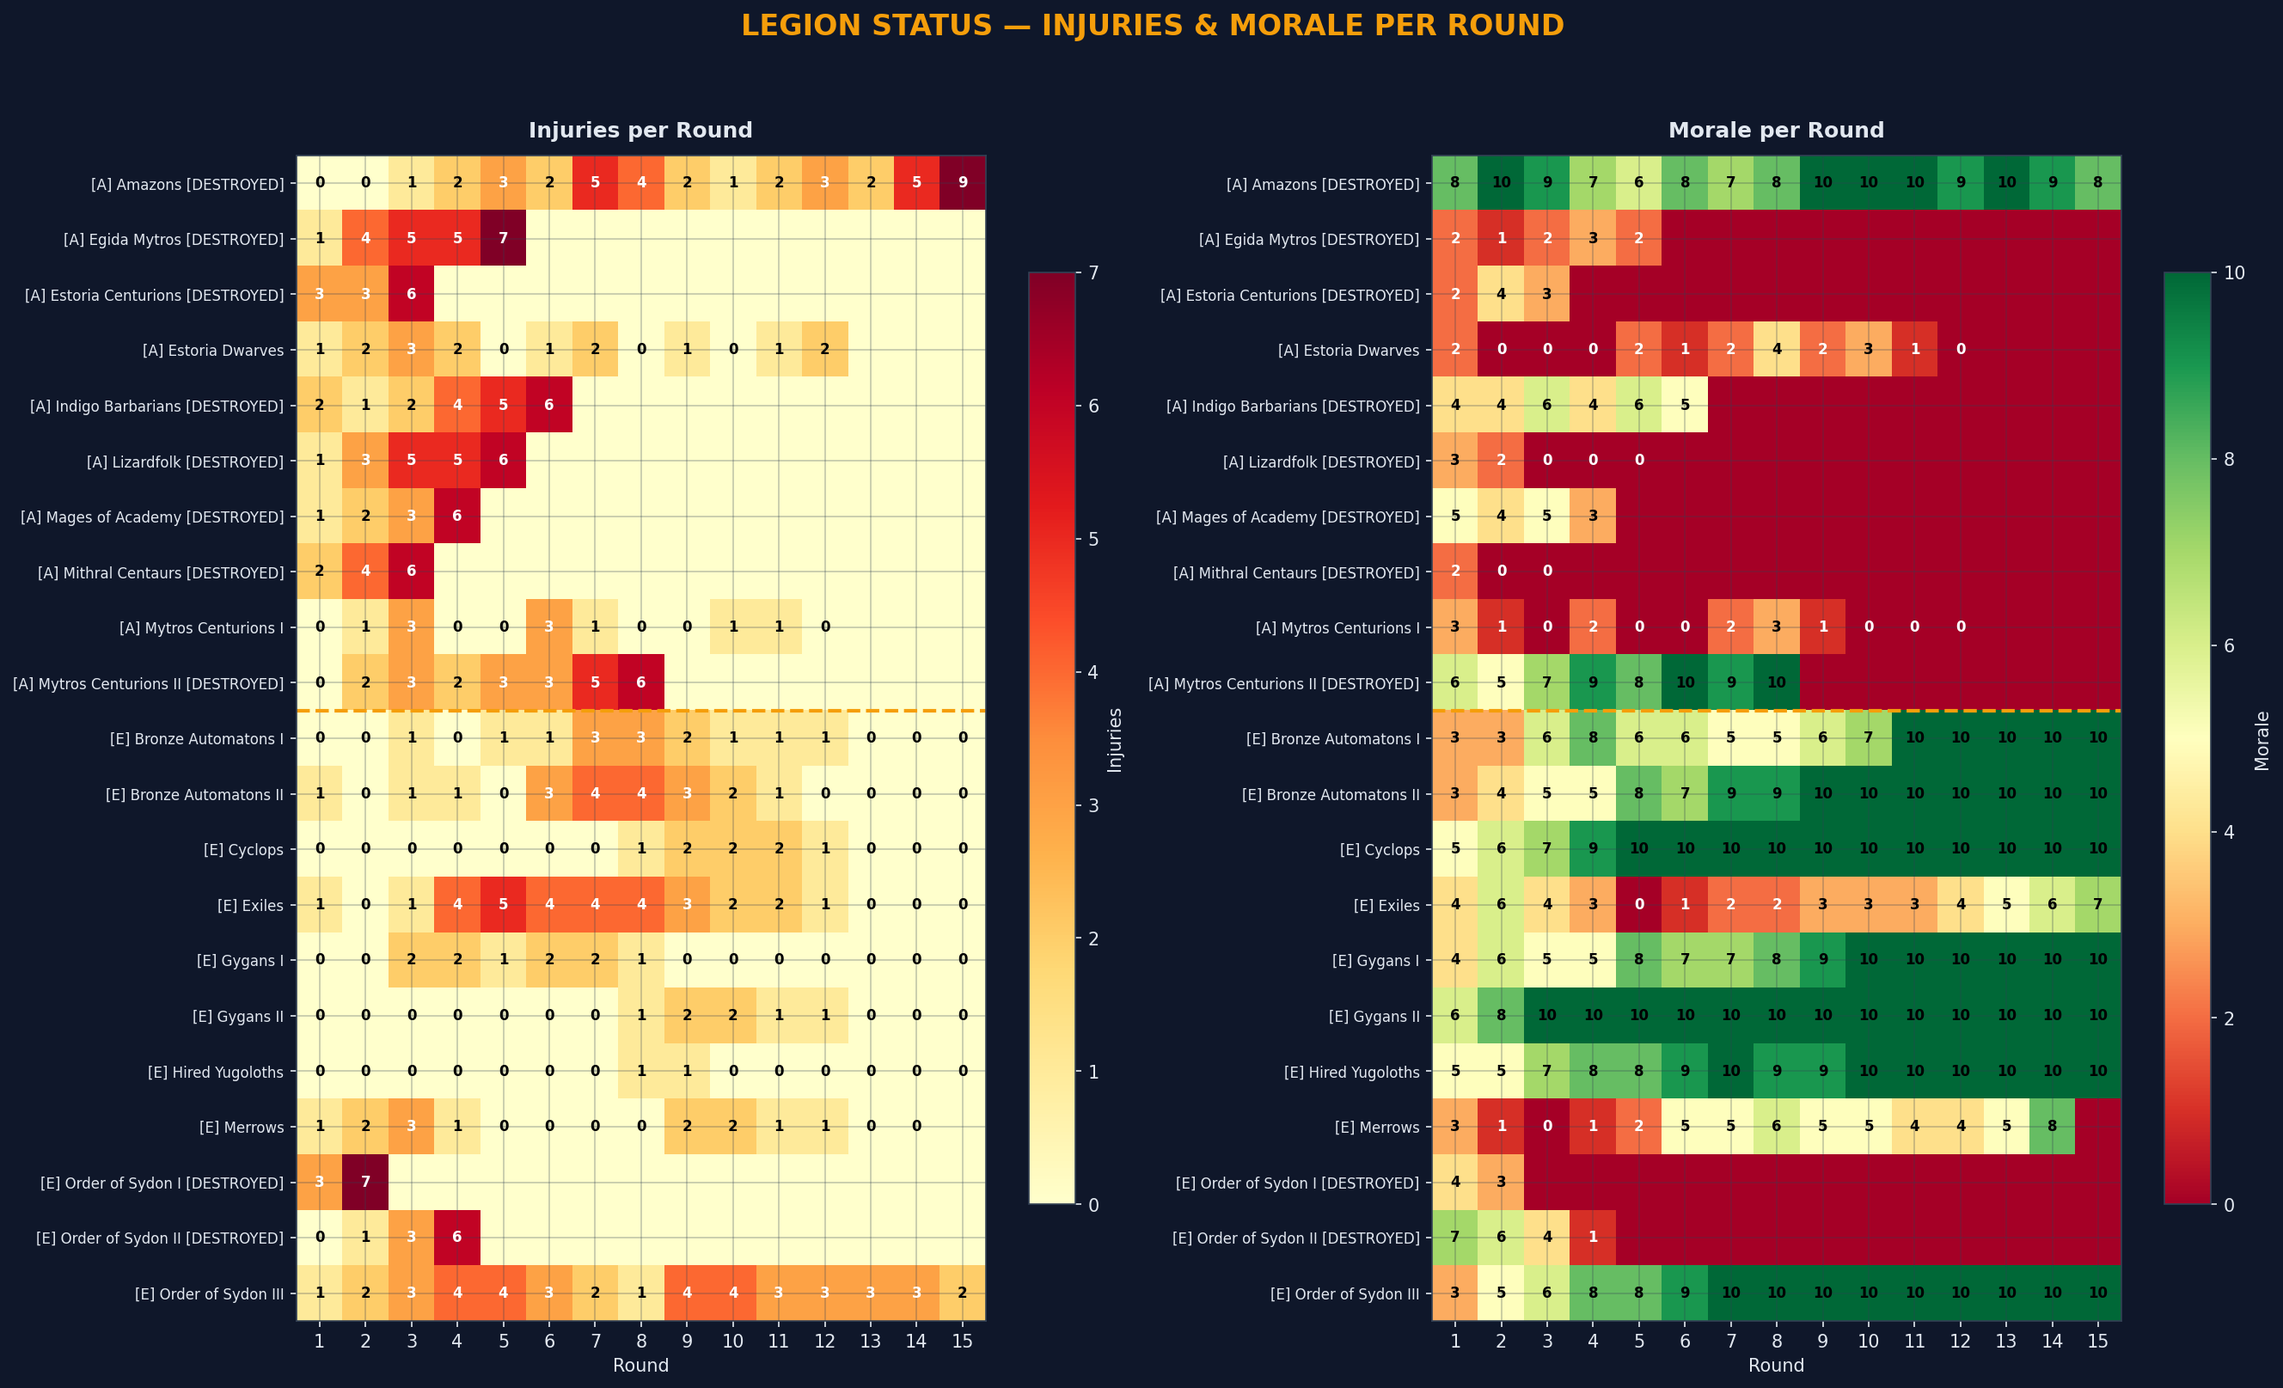
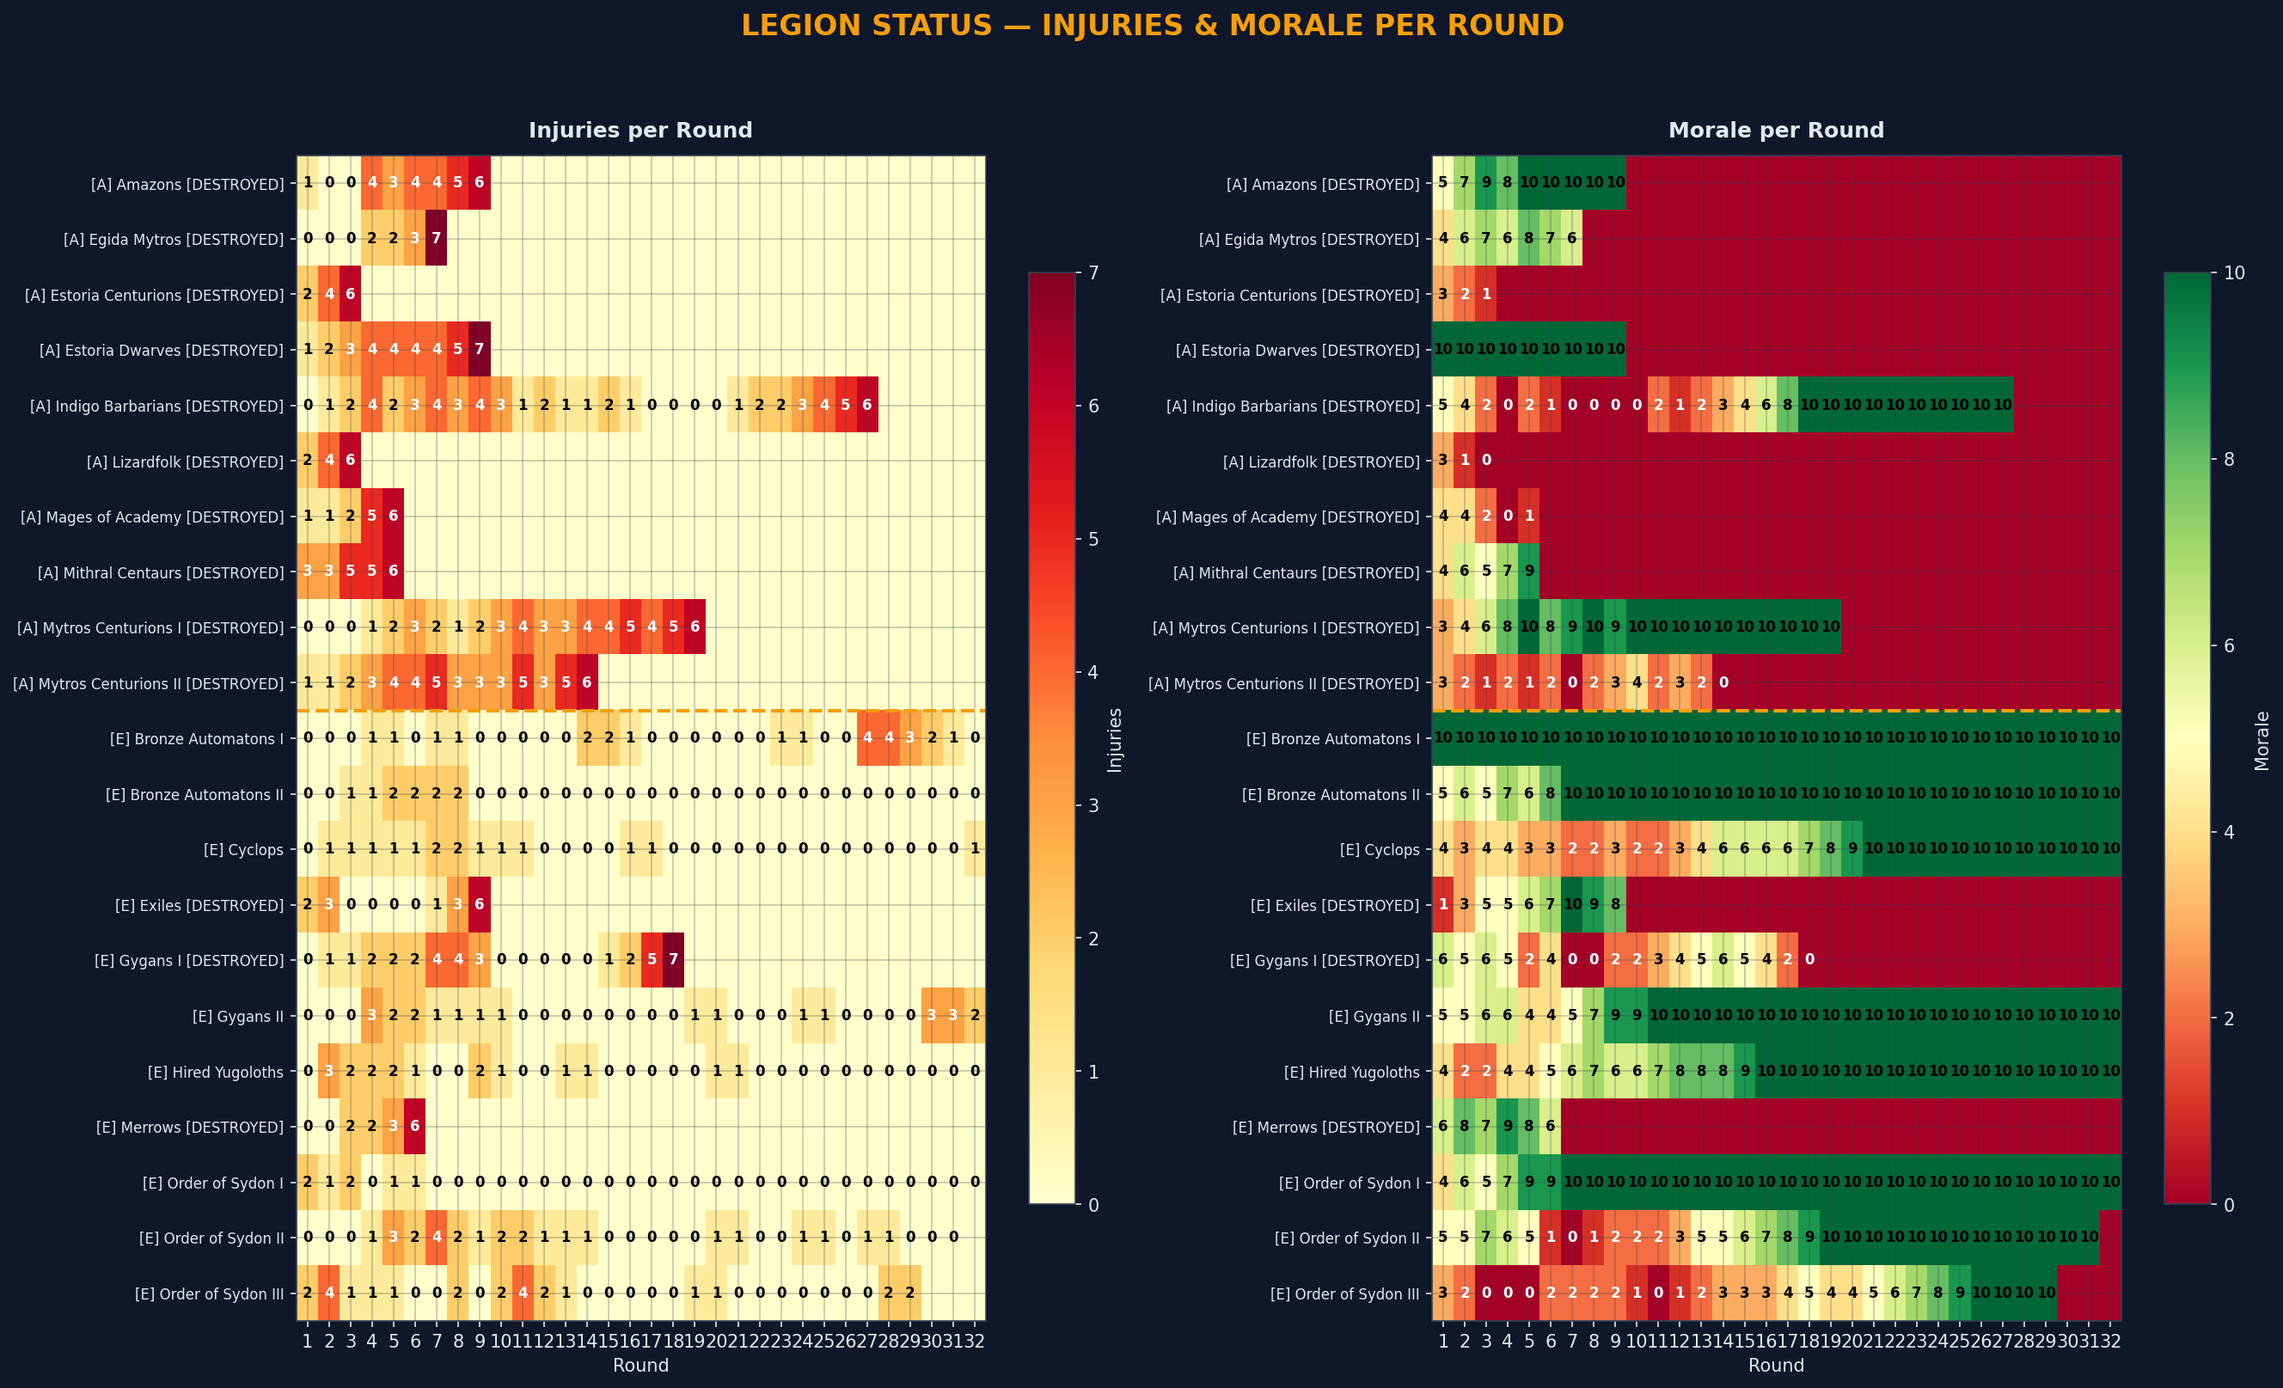
miracles rework

diff --git a/battle.html b/battle.html
@@ -1905,16 +1905,18 @@
 
                     <div class="miracle-grid">
                         <div class="miracle-item">
-                            <div class="number">+N</div>
-                            <div class="label">Roll Bonus</div>
+                            <div class="number" style="font-size: 1.4rem">-1<br />Injury</div>
+                            <div class="label">Divine Healing</div>
                             <div class="cost" style="font-size: 0.75rem; color: var(--text-dim)">
-                                1 point per +1 to any roll
+                                1 point · removes 1 injury from an active legion
                             </div>
                         </div>
                         <div class="miracle-item">
-                            <div class="number">Adv</div>
-                            <div class="label">Divine Advantage</div>
-                            <div class="cost">2 Points</div>
+                            <div class="number" style="font-size: 1.4rem">+1<br />Morale</div>
+                            <div class="label">Divine Inspiration</div>
+                            <div class="cost" style="font-size: 0.75rem; color: var(--text-dim)">
+                                1 point · grants +1 Morale to an active legion (max 10)
+                            </div>
                         </div>
                         <div class="miracle-item">
                             <div class="number" style="font-size: 1.4rem">Short<br />Rest</div>
@@ -1930,9 +1932,8 @@
 
                     <div class="callout callout-blue" style="margin-top: 1.5rem">
                         <strong>How Points Work</strong>
-                        Distribute points as flat bonuses to any rolls (battle, aftermath, or reconnaissance), spend 2
-                        to grant advantage on any roll before it's made, or spend points to give a PC an immediate short
-                        or long rest.
+                        Spend 1 point to remove an injury or grant +1 morale to an active legion, or spend points to
+                        give a PC an immediate short or long rest.
                     </div>
 
                     <p style="margin-top: 1rem; color: var(--text-secondary)">

diff --git a/sim/combat.py b/sim/combat.py
@@ -55,17 +55,9 @@ def simulate_battle(
                 adv = True
         return bonus, adv
 
-    def get_miracle(pool):
-        if not pool:
-            return 0, False
-        # Spend 1 for +1 bonus, or 2 for advantage if pool is large
-        bonus = 0
-        adv = False
-        if pool.points >= 2:
-            adv = pool.spend_advantage()
-        elif pool.points >= 1:
-            bonus = pool.spend_bonus(1)
-        return bonus, adv
+    # --- Reconnaissance bonus ---
+    rec_a = recon_maneuver_bonus if la.faction == Faction.ALLIED else 0
+    rec_b = recon_maneuver_bonus if lb.faction == Faction.ALLIED else 0
 
     # ── Phase 1: Maneuver (Wit) ──────────────────────────────────────────
     bon_a, adv_a, _ = legion_battle_bonuses(la, "maneuver")
@@ -76,15 +68,11 @@ def simulate_battle(
     pc_bon_a, pc_adv_a = roll_pc(pc_a, "maneuver")
     pc_bon_b, pc_adv_b = roll_pc(pc_b, "maneuver")
 
-    mir_bon_a, mir_adv_a = get_miracle(pool_a)
-    mir_bon_b, mir_adv_b = get_miracle(pool_b)
+    pc_bon_a, pc_adv_a = roll_pc(pc_a, "maneuver")
+    pc_bon_b, pc_adv_b = roll_pc(pc_b, "maneuver")
 
-    # recon bonus only applies to the allied side
-    rec_a = recon_maneuver_bonus if la.faction == Faction.ALLIED else 0
-    rec_b = recon_maneuver_bonus if lb.faction == Faction.ALLIED else 0
-
-    tot_a = la.wit_total + bon_a + pen_a + fort_a + rec_a + pc_bon_a + mir_bon_a
-    tot_b = lb.wit_total + bon_b + pen_b + fort_b + rec_b + pc_bon_b + mir_bon_b
+    tot_a = la.wit_total + bon_a + pen_a + fort_a + rec_a + pc_bon_a
+    tot_b = lb.wit_total + bon_b + pen_b + fort_b + rec_b + pc_bon_b
 
     # Up to 3 rerolls on tie
     winner = "tie"
@@ -92,8 +80,8 @@ def simulate_battle(
         ra, rb, ta, tb, n20a, n20b, n1a, n1b = contested_roll(
             tot_a,
             tot_b,
-            adv_a=adv_a or pc_adv_a or mir_adv_a,
-            adv_b=adv_b or pc_adv_b or mir_adv_b,
+            adv_a=adv_a or pc_adv_a,
+            adv_b=adv_b or pc_adv_b,
             disadv_a=dd_a,
             disadv_b=dd_b,
             vet_a=vet_a,
@@ -158,17 +146,17 @@ def simulate_battle(
     pc_bon_a2, pc_adv_a2 = roll_pc(pc_a, "charge")
     pc_bon_b2, pc_adv_b2 = roll_pc(pc_b, "charge")
 
-    mir_bon_a2, mir_adv_a2 = get_miracle(pool_a)
-    mir_bon_b2, mir_adv_b2 = get_miracle(pool_b)
+    pc_bon_a2, pc_adv_a2 = roll_pc(pc_a, "charge")
+    pc_bon_b2, pc_adv_b2 = roll_pc(pc_b, "charge")
 
-    tot_a2 = la.mor_total + bon_a2 + pen_a2 + charge_bonus_a + fort_a + pc_bon_a2 + mir_bon_a2
-    tot_b2 = lb.mor_total + bon_b2 + pen_b2 + charge_bonus_b + fort_b + pc_bon_b2 + mir_bon_b2
+    tot_a2 = la.mor_total + bon_a2 + pen_a2 + charge_bonus_a + fort_a + pc_bon_a2
+    tot_b2 = lb.mor_total + bon_b2 + pen_b2 + charge_bonus_b + fort_b + pc_bon_b2
 
     ra, rb, ta, tb, n20a, n20b, n1a, n1b = contested_roll(
         tot_a2,
         tot_b2,
-        adv_a=adv_a2 or pc_adv_a2 or mir_adv_a2,
-        adv_b=adv_b2 or pc_adv_b2 or mir_adv_b2,
+        adv_a=adv_a2 or pc_adv_a2,
+        adv_b=adv_b2 or pc_adv_b2,
         disadv_a=dd_a2,
         disadv_b=dd_b2,
         vet_a=vet_a,
@@ -181,8 +169,8 @@ def simulate_battle(
         ra, rb, ta, tb, n20a, n20b, n1a, n1b = contested_roll(
             tot_a2,
             tot_b2,
-            adv_a=adv_a2 or pc_adv_a2 or mir_adv_a2,
-            adv_b=adv_b2 or pc_adv_b2 or mir_adv_b2,
+            adv_a=adv_a2 or pc_adv_a2,
+            adv_b=adv_b2 or pc_adv_b2,
             disadv_a=dd_a2,
             disadv_b=dd_b2,
             vet_a=vet_a,
@@ -216,17 +204,17 @@ def simulate_battle(
     pc_bon_a3, pc_adv_a3 = roll_pc(pc_a, "clash")
     pc_bon_b3, pc_adv_b3 = roll_pc(pc_b, "clash")
 
-    mir_bon_a3, mir_adv_a3 = get_miracle(pool_a)
-    mir_bon_b3, mir_adv_b3 = get_miracle(pool_b)
+    pc_bon_a3, pc_adv_a3 = roll_pc(pc_a, "clash")
+    pc_bon_b3, pc_adv_b3 = roll_pc(pc_b, "clash")
 
-    tot_a3 = la.vit_total + bon_a3 + pen_a3 + clash_bonus_a + fort_a + pc_bon_a3 + mir_bon_a3
-    tot_b3 = lb.vit_total + bon_b3 + pen_b3 + clash_bonus_b + fort_b + pc_bon_b3 + mir_bon_b3
+    tot_a3 = la.vit_total + bon_a3 + pen_a3 + clash_bonus_a + fort_a + pc_bon_a3
+    tot_b3 = lb.vit_total + bon_b3 + pen_b3 + clash_bonus_b + fort_b + pc_bon_b3
 
     ra, rb, ta, tb, n20a, n20b, n1a, n1b = contested_roll(
         tot_a3,
         tot_b3,
-        adv_a=adv_a3 or pc_adv_a3 or mir_adv_a3,
-        adv_b=adv_b3 or pc_adv_b3 or mir_adv_b3,
+        adv_a=adv_a3 or pc_adv_a3,
+        adv_b=adv_b3 or pc_adv_b3,
         disadv_a=dd_a3,
         disadv_b=dd_b3,
         vet_a=vet_a,

diff --git a/sim/aftermath.py b/sim/aftermath.py
@@ -59,30 +59,18 @@ def run_aftermath(
                 bonus += random.randint(1, 8)
         return bonus
 
-    def get_miracle(pool):
-        if not pool:
-            return 0, False
-        bonus = 0
-        adv = False
-        if pool.points >= 2:
-            adv = pool.spend_advantage()
-        elif pool.points >= 1:
-            bonus = pool.spend_bonus(1)
-        return bonus, adv
-
     # ── Recovery Check (Vitality) ─────────────────────────────────────────
     adv_rec = _has(legion, "Medic")  # Medic: advantage on Recovery
     disadv_rec = disadv_recovery or _has(legion, "Fanatic")  # Fanatic: disadvantage
-    mir_bon_r, mir_adv_r = get_miracle(pool)
-    rec_bonus = warden_recovery_bonus + fort_bonus + roll_pc_aft("recovery") + mir_bon_r
+    rec_bonus = warden_recovery_bonus + fort_bonus + roll_pc_aft("recovery")
     if _has(legion, "Ironclad"):
         rec_bonus += IRONCLAD_BONUS
 
     dc = RECOVERY_BASE_DC + legion.injuries
 
-    if (adv_rec or mir_adv_r) and not disadv_rec:
+    if adv_rec and not disadv_rec:
         roll_r = max(d20(vet), d20(vet))
-    elif disadv_rec and not (adv_rec or mir_adv_r):
+    elif disadv_rec and not adv_rec:
         roll_r = min(d20(vet), d20(vet))
     else:
         roll_r = d20(vet)
@@ -121,17 +109,14 @@ def run_aftermath(
     }
 
     # ── Hope Check (Morale) ───────────────────────────────────────────────
-    mir_bon_h, mir_adv_h = get_miracle(pool)
-    hope_bonus = rallier_hope_bonus + fort_bonus + roll_pc_aft("hope") + mir_bon_h
+    hope_bonus = rallier_hope_bonus + fort_bonus + roll_pc_aft("hope")
     if _has(legion, "Rallier"):
         hope_bonus += RALLIER_OWN_HOPE_BONUS
     if _has(legion, "Inspiring"):
         hope_bonus += INSPIRING_BONUS
 
-    if disadv_hope and not mir_adv_h:
+    if disadv_hope:
         roll_h = min(d20(vet), d20(vet))
-    elif mir_adv_h and not disadv_hope:
-        roll_h = max(d20(vet), d20(vet))
     else:
         roll_h = d20(vet)
 
@@ -155,15 +140,11 @@ def run_aftermath(
     results["hope"] = {"roll": roll_h, "passed": passed_h, "morale_change": mor_chg}
 
     # ── Salvage Check (Wit) ───────────────────────────────────────────────
-    mir_bon_s, mir_adv_s = get_miracle(pool)
-    salvage_bonus = fort_bonus + roll_pc_aft("salvage") + mir_bon_s
+    salvage_bonus = fort_bonus + roll_pc_aft("salvage")
     if _has(legion, "Cunning"):
         salvage_bonus += CUNNING_BONUS
 
-    if mir_adv_s:
-        roll_s = max(d20(vet), d20(vet))
-    else:
-        roll_s = d20(vet)
+    roll_s = d20(vet)
 
     passed_s = roll_s + legion.wit_total + salvage_bonus >= SALVAGE_DC
 

diff --git a/sim/simulator.py b/sim/simulator.py
@@ -87,31 +87,40 @@ def simulate_round(
     random.shuffle(active_enemy)
     num_battles = min(len(active_allied), len(active_enemy))
 
-    # --- Miracle Spending ---
-    # Allied side spends on their battles, Enemy on theirs
-    # Distribute available points into MiraclePools for each battle
-    miracle_pool_allied = MiraclePool(summary.allied_miracles)
-    miracle_pool_enemy = MiraclePool(summary.enemy_miracles)
+    # --- Miracle Spending (AI) ---
+    # 1. Divine Healing (Priority: most injuries)
+    # 2. Divine Inspiration (Priority: lowest morale)
 
+    def ai_spend(legions, pool_points):
+        remaining = pool_points
+        # Healing
+        injured = sorted(
+            [legion for legion in legions if not legion.destroyed and legion.injuries > 0],
+            key=lambda x: x.injuries,
+            reverse=True,
+        )
+        for legion in injured:
+            while legion.injuries > 0 and remaining > 0:
+                legion.injuries -= 1
+                remaining -= 1
+        # Morale
+        low_morale = sorted(
+            [legion for legion in legions if not legion.destroyed and legion.mor_total < 10],
+            key=lambda x: x.mor_total,
+        )
+        for legion in low_morale:
+            while legion.mor_total < 10 and remaining > 0:
+                legion.morale_mod += 1
+                remaining -= 1
+        return remaining
+
+    summary.allied_miracles = ai_spend(allied, summary.allied_miracles)
+    summary.enemy_miracles = ai_spend(enemy, summary.enemy_miracles)
+
+    # Empty pools for passing to combat (no longer used for dice,
+    # but kept for signature compatibility)
     battle_pools_a = [MiraclePool(0) for _ in range(num_battles)]
     battle_pools_e = [MiraclePool(0) for _ in range(num_battles)]
-
-    if num_battles > 0:
-        # Greedily distribute points to battles
-        while miracle_pool_allied.points > 0:
-            for i in range(num_battles):
-                if miracle_pool_allied.points > 0:
-                    battle_pools_a[i].points += 1
-                    miracle_pool_allied.points -= 1
-                else:
-                    break
-        while miracle_pool_enemy.points > 0:
-            for i in range(num_battles):
-                if miracle_pool_enemy.points > 0:
-                    battle_pools_e[i].points += 1
-                    miracle_pool_enemy.points -= 1
-                else:
-                    break
 
     # --- PC Deployment (Allied side only for sim) ---
     # Randomly assign 3 PCs to allied battles

diff --git a/sim/visualization.py b/sim/visualization.py
@@ -887,8 +887,14 @@ def plot_monte_carlo(
         al, en, pool = build_armies_from_csv(legions_path, commanders_path)
         final_rnd = num_rounds
         sim_deaths = 0
+        mir_a, mir_e = 8, 10
+        destroyed_objs = []
+        hold_counters = {}
         for rnd in range(1, num_rounds + 1):
-            rs = simulate_round(al, en, rnd, pool)
+            rs = simulate_round(al, en, rnd, pool, mir_a, mir_e, destroyed_objs, hold_counters)
+            mir_a, mir_e = rs.allied_miracles, rs.enemy_miracles
+            destroyed_objs = rs.destroyed_objectives
+            hold_counters = rs.objective_hold_counters
             for name in rs.allied_commander_deaths + rs.enemy_commander_deaths:
                 cmdr_death_rounds[name].append(rnd)
             all_death_events.extend(rs.allied_commander_death_events)

diff --git a/sim/models.py b/sim/models.py
@@ -36,19 +36,10 @@ class MiraclePool:
     def __init__(self, points: int):
         self.points = points
 
-    def spend_bonus(self, amount: int = 1) -> int:
-        """Spend points for a flat bonus. Returns the bonus granted."""
+    def spend(self, amount: int = 1) -> bool:
+        """Spend points. Returns True if points were spent."""
         if self.points >= amount:
             self.points -= amount
-            return amount
-        b = self.points
-        self.points = 0
-        return b
-
-    def spend_advantage(self) -> bool:
-        """Spend 2 points for advantage. Returns True if advantage granted."""
-        if self.points >= 2:
-            self.points -= 2
             return True
         return False
 

diff --git a/system.md b/system.md
@@ -331,8 +331,8 @@ Each side possesses a pool of Miracle Points per round. Typically, Sydon starts 
 
 These points are a flexible resource that can be spent to influence the tide of war:
 
--   **Roll Bonuses**: Distribute points as flat bonuses to any rolls made during the round (Battle rolls, Aftermath rolls, or Reconnaissance).
--   **Divine Advantage (2 Points)**: Grant advantage on any roll before its made.
+-   **Divine Healing (1 Point)**: Remove 1 injury from one active legion.
+-   **Divine Inspiration (1 Point)**: Grant +1 Morale to one active legion (up to the cap of 10).
 -   **Divine Restoration**: A PC can restore their strength.
     -   **Short Rest (2 Points)**: One PC immediately gains the benefits of a Short Rest.
     -   **Long Rest (4 Points)**: One PC immediately gains the benefits of a Long Rest.
